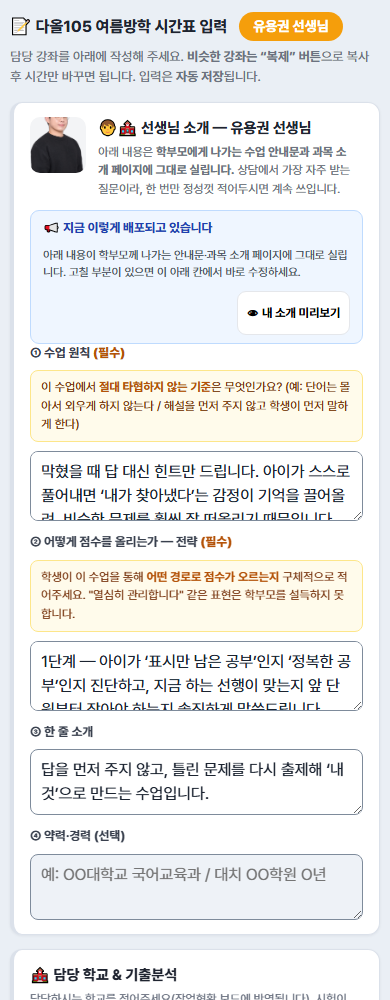
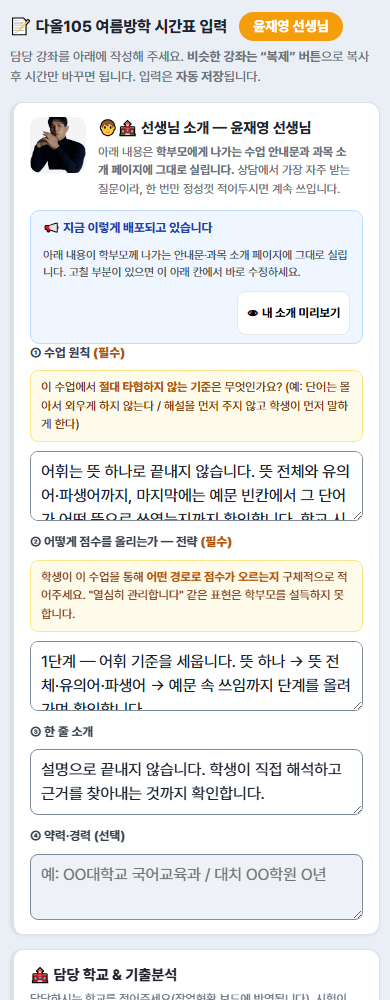
docs: 선생님 설명서 캡처를 윤재영 선생님(샘플 예시)으로 교체
- 6장 전부 윤재영 선생님 화면으로 재촬영
- 수업 진행표 예시를 '하남고1 영어'로 교체 — 금=클리닉·토=수업이라
  초록(수업)과 보라 점선(클리닉)이 한 화면에 같이 보이고,
  하단에 '정규 4회 · 조교 클리닉 4일(회차 제외)'이 그대로 노출된다
  (클리닉을 회차에 넣지 않는다는 규칙을 글이 아니라 화면으로 보여줌)
- 본문 수치도 캡처에 맞춰 정정(정규 8회 → 정규 4회), 색 설명 추가

diff --git a/guide-teacher.html b/guide-teacher.html
@@ -75,7 +75,7 @@
     .cover h1{font-size:23px} .step-t{font-size:17px} body{font-size:15.5px}
   }
 </style>
-<link rel="stylesheet" href="mobile-fix.css"/>
+<link rel="stylesheet" href="mobile-fix.css?v=e768566c"/>
 </head>
 <body>
 
@@ -153,12 +153,12 @@
 <div class="step">
   <div class="step-h"><div class="step-n">5</div><div class="step-t">⭐ 실제 수업일을 표시합니다 (제일 중요)</div></div>
   <div class="step-b">
-    <p>주황색 버튼을 누르면 <b>그 강좌 전용 달력</b>이 열립니다.
+    <p>주황색 버튼을 누르면 <b>그 강좌 전용 달력</b>이 열립니다. (아래는 <b>토=수업, 금=클리닉</b>인 강좌를 예로 든 화면입니다.)<br>
       요일 규칙대로 이미 칠해져 있으니, <b>다른 날만</b> 고쳐주시면 됩니다.</p>
     <figure>
-      <img src="shots/05_수업진행표.png" alt="월간 수업 진행표. 수업일이 초록으로 표시되고 공휴일에 빨간 점"/>
-      <figcaption>맨 아래에 <b>정규 8회</b>처럼 이번 달 횟수가 나옵니다.
-        빨간 점(🔴)이 붙은 날은 <b>공휴일</b>입니다.</figcaption>
+      <img src="shots/05_수업진행표.png" alt="월간 수업 진행표. 토요일은 초록(수업), 금요일은 보라 점선(클리닉), 공휴일에 빨간 점"/>
+      <figcaption>맨 아래에 <b>정규 4회 · 조교 클리닉 4일(회차 제외)</b>처럼 이번 달 횟수가 나옵니다.
+        <b>초록</b>은 수업, <b>보라 점선</b>은 클리닉입니다. 빨간 점(🔴)이 붙은 날은 <b>공휴일</b>입니다.</figcaption>
     </figure>
     <div class="warn">🔴 <b>공휴일도 기본은 “수업”입니다.</b>
       학원이 마음대로 빼지 않습니다. <b>쉬시는 날만</b> 눌러서 휴강으로 바꿔주세요.</div>
